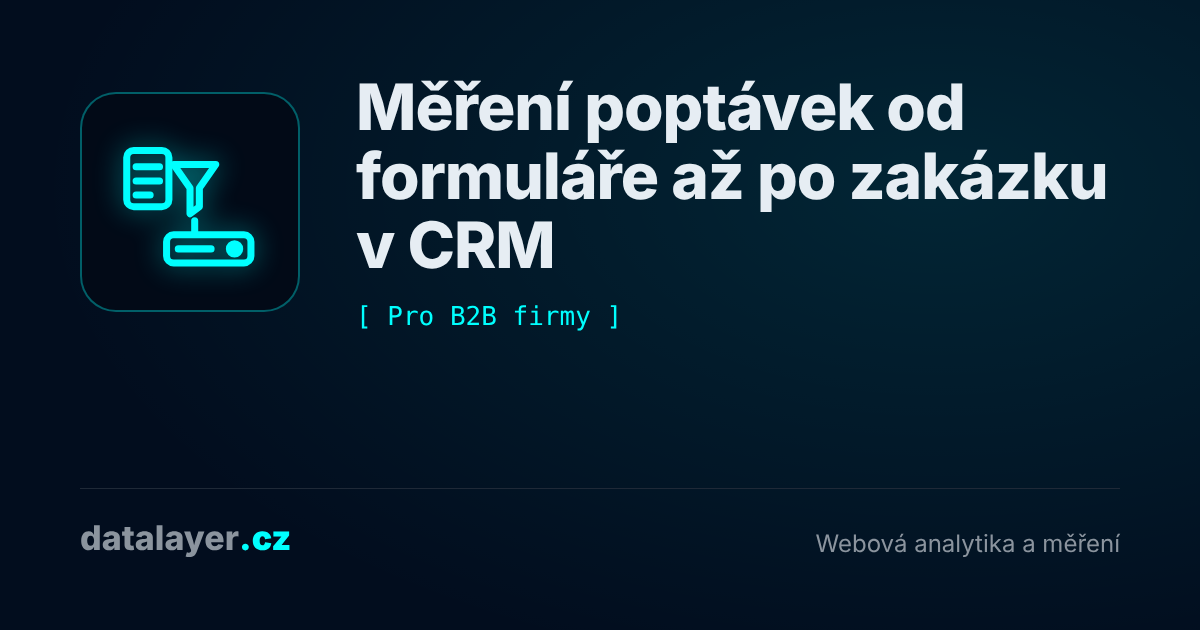
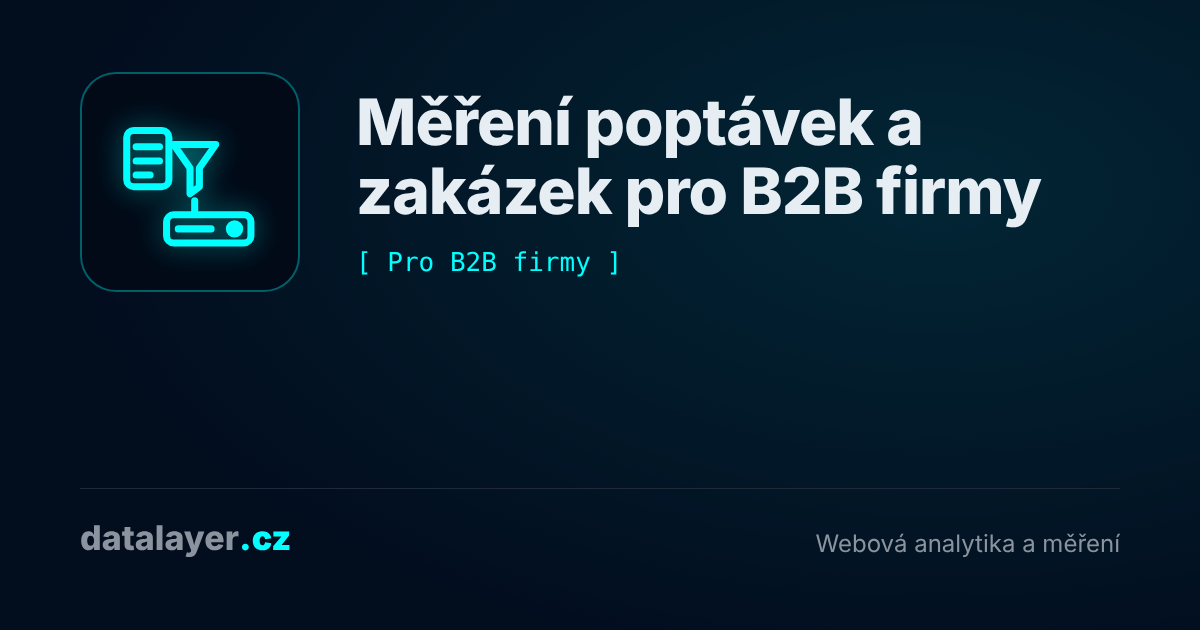
datalayer-web: audit z 2. listopadu, kap. 11–12 a typografie e-shop
- E-shopy podle kap. 11: úvod, „Co má měření e-shopu zodpovědět“, rozsah
  ve třech úrovních s odkazy na služby, platformy „Co prověříme / Co lze
  doplnit“, FAQ a kontakt
- B2B podle kap. 12: úvod, „Co potřebuje marketing vědět o výsledcích
  obchodu“, postup od formuláře k zakázce, šest výstupů, FAQ a kontakt
- nezlomitelný spojovník v „e-shop“ při vykreslení (nadpis se nelámal
  na „e-“ a „shopy“)
- testy titulků bez dlouhé pomlčky a textů z kap. 13, 14, 16 a 18

Claude-Session: https://claude.ai/code/session_01X5EG4CRVyKJvLW8kBAie3r

diff --git a/datalayer-web/app/content/defaults/pages/reseni-b2b-lead-generation.ts b/datalayer-web/app/content/defaults/pages/reseni-b2b-lead-generation.ts
@@ -1,15 +1,16 @@
 import type { PageInput } from '../../schema';
 
-// Stránka odpovídá auditu z 2. listopadu 2026 (seo-analyza/2026-11-02_seo-ux-texty).
-// Kapitola k B2B v podkladu chybí, platí jen společná pravidla G01–G07 a závěr
-// z kap. 1 (stránka je rozcestník podle typu firmy). Zůstaly: hero s jedním tlačítkem,
-// „Co uděláme a co dostanete“ se šesti kartami (pravidlo devadesáti dní je v kartě
-// offline konverzí) a čtyři otázky. Sekce se situacemi má konkrétní nadpis a kotvu
-// #kdy. Úvod jen vysvětlí nabídku, definice poptávky a okruh web – CRM – reklamní
-// systémy jsou v sekci #jak-to-funguje (G06), podrobnosti o rozšířených konverzích
-// a Data Manager API z FAQ v technické poznámce pod ní (G04). „Lead“ zůstal jen jako
-// odborný název v definici a v SEO popisu, jinak „poptávka“; cesta stránky se nemění.
-// Přibyly související služby před kontaktem.
+// Stránka odpovídá auditu z 2. listopadu 2026 (seo-analyza/2026-11-02_seo-ux-texty,
+// kap. 3 a 12, L01–L05; SEO podle kap. 17, S03 a S04). Zůstaly: hero s jedním tlačítkem,
+// nově s kotvami, karty situací (nadpis „Co potřebuje marketing vědět o výsledcích
+// obchodu“), šest karet výstupů, čtyři otázky a související služby Měření konverzí
+// a BigQuery a reporting. Sekci „Jak měření poptávek funguje“ s technickou poznámkou
+// nahradil postup „Od formuláře k zakázce“ ve čtyřech krocích; jediná zmínka o „leadu“
+// je v jeho úvodu, cesta stránky se nemění. Vypadly: příběh o studentech, konkurenci
+// a spamu, „levnější, ale horší“ poptávky, detekce pole, na kterém návštěvník odešel,
+// BigQuery v každé zakázce, konkrétní API (Data Manager, Conversions API), datum
+// migrace Googlu a jednotný limit devadesáti dní. Zvratný trpný rod z auditu je
+// přepsaný („Jak propojit CRM s reklamními systémy?“, „Jak zacházíme s kontaktními údaji?“).
 
 export const page: PageInput = {
   path: 'reseni/b2b-a-lead-generation',
@@ -19,23 +20,28 @@ export const page: PageInput = {
   pictogram: 'lead',
 
   seo: {
-    title: 'Měření poptávek a offline konverze z CRM | datalayer.cz',
+    title: 'Měření B2B poptávek a offline konverzí – datalayer.cz',
     description:
-      'Měření poptávek a leadů od formuláře po zakázku v CRM a jejich návrat do Google Ads, Mety a LinkedInu: offline konverze, měření telefonátů a cena zakázky.',
+      'Propojíme poptávky z webu s výsledky v CRM. Nastavíme vyhodnocení kvality poptávek, reporting zakázek a vybrané offline konverze.',
   },
 
   hero: {
-    h1: 'Měření poptávek od formuláře až po zakázku v CRM',
+    h1: 'Měření poptávek a zakázek pro B2B firmy',
     subtitle:
-      'Propojíme web, reklamní systémy a CRM, tedy systém, ve kterém obchod eviduje poptávky a zákazníky. Nastavíme měření formulářů a telefonátů, ukládání zdroje poptávky do CRM a předání výsledků obchodu zpět do Google Ads, Mety a LinkedInu. Kampaně pak jde vyhodnotit podle kvalifikovaných poptávek a zakázek, nejen podle počtu formulářů.',
+      'Propojíme měření webových poptávek s výsledky obchodu v CRM. Uvidíte, ze kterých zdrojů přicházejí kvalifikované poptávky a zakázky. Podle možností systémů nastavíme také předávání vybraných výsledků zpět do reklamy jako offline konverze.',
     primaryCta: { label: 'Probrat měření poptávek', href: '#kontakt' },
+    anchors: [
+      { label: 'Co řešíme', href: '#kdy' },
+      { label: 'Postup', href: '#postup' },
+      { label: 'Výstupy', href: '#vystupy' },
+      { label: 'Cena a dotazy', href: '#faq' },
+    ],
   },
 
   sections: [
     {
       id: 'kdy',
-      title: 'Kdy propojit měření poptávek s CRM',
-      lead: 'Měření až do CRM má smysl, když reklama přivádí poptávky, ale není jasné, které z nich končí zakázkou.',
+      title: 'Co potřebuje marketing vědět o výsledcích obchodu',
       tone: 'light',
       blocks: [
         {
@@ -44,24 +50,24 @@ export const page: PageInput = {
           variant: 'symptoms',
           items: [
             {
-              title: 'Hodně poptávek, málo zakázek',
-              text: 'Kampaně hlásí hodně poptávek a obchod upozorňuje, že velkou část z nich tvoří studenti, konkurence nebo spam.',
+              title: 'Které poptávky jsou relevantní',
+              text: 'Samotný počet formulářů nevypovídá o jejich obchodní kvalitě.',
               pictogram: 'lead',
             },
             {
-              title: 'Google Ads se řídí počtem formulářů',
-              text: 'Chytré nabídky se učí, že dobrá poptávka je jakákoli poptávka, a přivádějí jich víc – levnějších, ale horších.',
-              pictogram: 'conversion',
-            },
-            {
-              title: 'V CRM chybí zdroj',
-              text: 'Obchodník vidí jméno a telefon, ale ne kampaň, klíčové slovo ani to, že zákazník přišel z LinkedInu.',
+              title: 'Odkud poptávka přišla',
+              text: 'Zdroj a dostupné identifikátory potřebujete uchovat při předání do CRM.',
               pictogram: 'datalayer',
             },
             {
-              title: 'Obchodní cyklus trvá měsíce',
-              text: 'Obchod uzavře zakázku po třech měsících a bez napojení CRM se o ní reklamní systém nedozví.',
+              title: 'Jak se poptávka vyvíjí',
+              text: 'Kvalifikace, nabídka a uzavřená zakázka mají odlišný význam pro vyhodnocení.',
               pictogram: 'monitor',
+            },
+            {
+              title: 'Co lze vracet do reklamy',
+              text: 'Předávání konverzí závisí na dostupných údajích, souhlasech a limitech cílových systémů.',
+              pictogram: 'conversion',
             },
           ],
         },
@@ -69,35 +75,27 @@ export const page: PageInput = {
     },
 
     {
-      id: 'jak-to-funguje',
-      title: 'Jak měření poptávek funguje',
-      lead: 'Poptávka, v reklamních systémech lead, je zájem potenciálního zákazníka z formuláře na webu nebo z telefonu. Měření ji sleduje ve třech místech.',
+      id: 'postup',
+      title: 'Od formuláře k zakázce',
+      lead: 'Poptávku potenciálního zákazníka označují marketingové nástroje také jako lead. Z webu putuje do CRM, tedy systému, ve kterém obchod eviduje poptávky a zákazníky.',
       tone: 'white',
       blocks: [
         {
-          type: 'cards',
-          columns: 3,
+          type: 'steps',
           items: [
+            { title: 'Poptávka z webu', text: 'Zájem potenciálního zákazníka z formuláře na webu nebo z telefonu.' },
+            { title: 'Záznam v CRM', text: 'CRM uchová dostupný zdroj poptávky a další dohodnuté údaje.' },
+            { title: 'Vyhodnocení obchodem', text: 'Obchod posoudí kvalitu poptávky a podle dohodnutých pravidel mění její fáze.' },
             {
-              title: 'Web',
-              text: 'Tady poptávka vznikne. Formulář uloží do CRM zdroj, kampaň a ID kliknutí.',
-            },
-            {
-              title: 'CRM',
-              text: 'Obchod tu zjistí kvalitu a hodnotu poptávky a podle dohodnutých pravidel mění její fáze.',
-            },
-            {
-              title: 'Reklamní systémy',
-              text: 'Fáze obchodu pošleme zpět do Google Ads, Mety a LinkedInu jako offline konverze. Kampaně se pak učí z poptávek, které obchod uzavřel, ne z počtu formulářů.',
+              title: 'Reporting a vybrané konverze pro reklamu',
+              text: 'Report propojí náklady s fázemi poptávky. Vybrané výsledky podle možností systémů předáme do reklamy jako offline konverze.',
             },
           ],
         },
         {
-          type: 'details',
-          summary: 'Technická poznámka: rozšířené konverze a Data Manager API',
+          type: 'paragraphs',
           items: [
-            'Kombinaci ID kliknutí a hashe e-mailu nebo telefonu Google nazývá „rozšířené konverze pro potenciální zákazníky“ a pro nové implementace ji doporučuje, protože konverzi spáruje, i když ID kliknutí cestou zmizí.',
-            'Od 15. června 2026 Google směruje nahrávání offline konverzí do Data Manager API, starší skripty proto převedeme.',
+            'Nejdřív s marketingem a obchodem dohodneme, co znamená kvalifikovaná poptávka a kdo aktualizuje její stav. Potom nastavíme předávání dat. Bez používaných pravidel v CRM nebude technická integrace sama stačit.',
           ],
         },
       ],
@@ -105,8 +103,7 @@ export const page: PageInput = {
 
     {
       id: 'vystupy',
-      title: 'Co uděláme a co dostanete',
-      lead: 'Uzavřený okruh od kliknutí po zakázku a zpět stojí na šesti částech – od měření formulářů přes CRM po report.',
+      title: 'Co zahrnuje řešení',
       tone: 'light',
       blocks: [
         {
@@ -114,28 +111,28 @@ export const page: PageInput = {
           columns: 3,
           items: [
             {
-              title: 'Měřicí plán a formuláře',
-              text: 'Měříme začátek vyplňování, chyby i odeslání formuláře, takže je vidět, na kterém poli lidé formulář opouštějí.',
+              title: 'Měření formulářů',
+              text: 'Rozlišení formulářů a jejich úspěšného odeslání. Detailnější sledování chyb a jednotlivých kroků domluvíme podle potřeby.',
             },
             {
-              title: 'Zdroj a ID kliknutí v CRM',
-              text: 'Formulář automaticky vyplní v CRM zdroj, kampaň, ID kliknutí a ID poptávky. Pole nastavíme sami, nebo je připravíme pro správce CRM.',
+              title: 'Předání do CRM',
+              text: 'Uložení dostupného zdroje, identifikátoru poptávky a dalších dohodnutých údajů.',
             },
             {
-              title: 'Mapa fází poptávky',
-              text: 'S obchodem dohodneme fáze, jejich hodnoty a pravidla pro změnu fáze; obchodníky krátce zaškolíme.',
+              title: 'Pravidla obchodních fází',
+              text: 'Definice kvalifikace, nabídky a zakázky včetně odpovědnosti za aktualizaci.',
             },
             {
-              title: 'Konverze zpět do reklamních systémů',
-              text: 'Kvalifikované poptávky a zakázky s hodnotou pošleme do Google Ads přes Data Manager a do Mety a LinkedInu přes Conversions API. Google Ads přiřadí offline konverzi jen do devadesáti dní od kliknutí, u delších obchodů proto jako primární konverzi nastavíme kvalifikovanou poptávku.',
+              title: 'Offline konverze',
+              text: 'Předávání vybraných výsledků podporovaným reklamním systémům a kontrola jejich přijetí.',
             },
             {
-              title: 'Měření telefonátů',
-              text: 'Úroveň měření zvolíme podle toho, kolik poptávek přichází telefonem – od kliknutí na číslo po dynamická čísla, která hovor zapíšou do CRM.',
+              title: 'Telefonické poptávky',
+              text: 'Podle rozsahu od měření kliknutí na číslo až po napojení služby pro měření hovorů. Kliknutí na číslo samo nepotvrzuje uskutečněný hovor.',
             },
             {
-              title: 'Report od poptávky po zakázku',
-              text: 'Náklady, poptávky a fáze z CRM spojíme v BigQuery a report ukáže cenu poptávky, kvalifikované poptávky i zakázky podle kanálů.',
+              title: 'Report výsledků',
+              text: 'Přehled nákladů a jednotlivých fází poptávky podle dostupných dat. Datový sklad zapojíme, pokud je pro propojení potřebný.',
             },
           ],
         },
@@ -145,20 +142,20 @@ export const page: PageInput = {
 
   faq: [
     {
-      q: 'Jak se zakázky z CRM dostanou zpět do Google Ads?',
-      a: 'Zakázky posíláme do Google Ads jako offline konverze. U každé poptávky formulář uloží do CRM ID kliknutí a hash e-mailu nebo telefonu. Fáze s hodnotou pak jednou denně posíláme přes Google Ads Data Manager – z HubSpotu a Salesforce přímo, z ostatních CRM přes BigQuery nebo tabulku.',
+      q: 'Jak propojit CRM s reklamními systémy?',
+      a: 'Podle možností konkrétního CRM a cílových platforem. Může jít o podporovaný konektor, API nebo pravidelný export. Před realizací ověříme dostupná pole, identifikátory a možnosti párování.',
     },
     {
       q: 'Co ovlivňuje cenu?',
-      a: 'Cenu určuje počet formulářů a vstupních kanálů, třeba webu, telefonu nebo formulářů přímo v reklamách, dále CRM a jeho možnosti exportu, počet reklamních systémů, úroveň měření telefonátů a report. Po úvodní konzultaci a krátkém auditu dostanete nabídku s pevným rozsahem a výstupy. Poplatky za call tracking nebo licence CRM platíte přímo poskytovatelům.',
+      a: 'Počet formulářů a zdrojů poptávek, možnosti CRM, počet reklamních systémů a rozsah reportingu. Licence CRM, měření hovorů a případný cloud jsou samostatné položky.',
     },
     {
-      q: 'Jaká součinnost je potřeba?',
-      a: 'Přístupy do Google Tag Manageru, Google Analytics 4 a reklamních účtů, součinnost správce CRM a případně vývojáře webu pro úpravu formulářů. Důležitý je i krátký workshop s obchodem, na kterém dohodneme, co znamená „kvalifikovaná poptávka“ a kdy obchodník mění fázi. Pracujeme přímo ve vašich účtech, přístupy po skončení projektu odeberete a mapu fází s dokumentací předáme.',
+      q: 'Koho je potřeba zapojit na straně firmy?',
+      a: 'Marketing, obchod a správce CRM; podle rozsahu také vývojáře webu. Obchod určí význam jednotlivých fází a bude jejich stav průběžně udržovat.',
     },
     {
-      q: 'Je posílání dat z CRM do Googlu a Mety v souladu s GDPR?',
-      a: 'Technické nastavení připravíme konzervativně, právní titul pro předání údajů ale posoudí váš právník. Kontaktní údaje posíláme jen jako hash a jen se souhlasem <code>ad_user_data</code>, do GA4 žádné osobní údaje nejdou a předáváme jen nezbytná pole. Správce osobních údajů z CRM je vaše firma, Google u rozšířených konverzí vystupuje jako zpracovatel podle smluvních podmínek Google Ads Data Processing Terms a my jako zpracovatel podle zpracovatelské smlouvy. Nejsme advokátní kancelář, právníkovi ale dodáme přesný popis datových toků.',
+      q: 'Jak zacházíme s kontaktními údaji?',
+      a: 'Předem určíme nezbytná pole, účely a příjemce dat. Implementaci nastavíme podle odsouhlasených pravidel a dodáme popis datových toků. Hashování není anonymizace; přípustnost předání je potřeba posoudit pro konkrétní řešení.',
     },
   ],
 
@@ -174,28 +171,22 @@ export const page: PageInput = {
         href: '/sluzby/bigquery',
         text: 'Spojí náklady na reklamu s poptávkami a fázemi obchodu z CRM do společného reportu.',
       },
-      {
-        label: 'Server-side měření',
-        href: '/sluzby/server-side-tracking',
-        text: 'Předá události ze serveru a CRM, například změny stavu poptávky, reklamním systémům podle nastavených pravidel.',
-      },
     ],
   },
 
   contact: {
     formId: 'lp-b2b',
-    title: 'Proberme měření poptávek',
-    lead: 'Napište, jaké CRM používáte a odkud poptávky přicházejí. Na úvodní konzultaci upřesníme zadání a navrhneme další postup.',
+    title: 'Proberme propojení webu a CRM',
+    lead: 'Napište, jaké CRM používáte, odkud přicházejí poptávky a jak je obchod vyhodnocuje. Navrhneme první krok i potřebnou součinnost.',
     placeholder: '',
     leadType: 'consultation',
   },
 
   schema: {
-    name: 'Měření poptávek a offline konverze pro B2B',
-    serviceType:
-      'Měření formulářů, napojení CRM, offline a rozšířené konverze pro potenciální zákazníky, měření telefonátů, reporting od poptávky po zakázku',
+    name: 'Měření poptávek a zakázek pro B2B firmy',
+    serviceType: 'Měření formulářů, předání poptávek do CRM, offline konverze a reporting od poptávky po zakázku',
     description:
-      'Měření poptávek od formuláře po zakázku v CRM a jejich návrat do Google Ads, Mety a LinkedInu: offline konverze, rozšířené konverze pro potenciální zákazníky, měření telefonátů a reporting ceny poptávky, ceny zakázky a poměru poptávek k zakázkám.',
+      'Propojení měření webových poptávek s výsledky obchodu v CRM: přehled zdrojů kvalifikovaných poptávek a zakázek a podle možností systémů předávání vybraných výsledků zpět do reklamy jako offline konverze.',
     audience: 'B2B firmy a firmy, které získávají zákazníky přes poptávky',
   },
 };

diff --git a/datalayer-web/tests/content.test.ts b/datalayer-web/tests/content.test.ts
@@ -2,6 +2,7 @@ import { describe, expect, it } from 'vitest';
 import { DEFAULT_NAVIGATION, DEFAULT_PAGES, DEFAULT_TEXTS } from '~/content/defaults';
 import { navigationSchema, pageSchema, templateAnchors, textsSchema, type Link, type NavLink, type PageContent } from '~/content/schema';
 import { checkPage, checkText, pageTexts, plainText } from '~/lib/textRules';
+import { typo, typoHtml } from '~/lib/typo';
 
 // Kontrola výchozího obsahu webu (app/content/defaults) – z něj migrace
 // (20261009_cms_content_import, 20261009_lp_stihla_sablona, 20261009_ux_redukce…)
@@ -326,10 +327,34 @@ describe('audit z 2. listopadu 2026 (seo-analyza/2026-11-02_seo-ux-texty)', () =
     }
   });
 
+  it('titulky a popisy pro vyhledávače podle S03 a S04, bez dlouhé pomlčky', () => {
+    for (const p of DEFAULT_PAGES) {
+      expect(p.seo.title, `/${p.path}`).toMatch(/datalayer\.cz/);
+      expect(p.seo.title, `/${p.path}`).not.toMatch(/\||—/);
+    }
+    expect(JSON.stringify([DEFAULT_PAGES, DEFAULT_TEXTS, DEFAULT_NAVIGATION])).not.toContain('—');
+  });
+
+  it('O datalayer.cz, Kontakt, cookie lišta a 404 podle kap. 13, 14, 16 a 18', () => {
+    expect(DEFAULT_PAGES.find((p) => p.path === 'o-nas')!.hero.h1).toBe('O datalayer.cz');
+    expect(DEFAULT_PAGES.find((p) => p.path === 'kontakt')!.hero.h1).toBe('Kontakt');
+    expect(DEFAULT_PAGES.find((p) => p.path === 'cookies')!.hero.h1).toBe('Cookies a nastavení souhlasu');
+    expect(DEFAULT_TEXTS.cookieBar).toMatchObject({ title: 'Nastavení cookies', reject: 'Odmítnout volitelné', settings: 'Upravit nastavení', accept: 'Přijmout vše', save: 'Uložit nastavení' });
+    expect(DEFAULT_TEXTS.notFound).toMatchObject({ title: 'Tuto stránku jsme nenašli', home: 'Přejít na úvod', contact: 'Kontakt' });
+  });
+
   it('formulář: texty podle G05', () => {
     expect(DEFAULT_TEXTS.contact.submit).toBe('Odeslat poptávku');
     expect(DEFAULT_TEXTS.contact.formIntro).toBe('Stačí stručně popsat situaci. Přístupy k účtům domluvíme až podle rozsahu práce.');
     expect(DEFAULT_TEXTS.contact.successTitle).toBe('Děkujeme, poptávku jsme přijali');
+  });
+});
+
+describe('typografie při vykreslení', () => {
+  it('nedělitelné mezery a nezlomitelný spojovník v „e-shop“, odkazy beze změny', () => {
+    expect(typo('Měření pro e-shopy a B2B')).toBe('Měření pro e\u2011shopy a\u00a0B2B');
+    expect(typo('E-shop v Shoptetu')).toBe('E\u2011shop v\u00a0Shoptetu');
+    expect(typoHtml('<a href="/reseni/e-shopy">Řešení pro e-shopy</a>')).toBe('<a href="/reseni/e-shopy">Řešení pro e\u2011shopy</a>');
   });
 });
 

diff --git a/datalayer-web/app/lib/typo.ts b/datalayer-web/app/lib/typo.ts
@@ -1,15 +1,22 @@
 // Česká typografie při vykreslení (ČSN 01 6910, jazykový audit kap. 4.1): nedělitelná
 // mezera za jednopísmennými předložkami a spojkami, mezi číslem a jednotkou a za „§“,
-// aby nezůstaly na konci řádku. Obsah v administraci zůstává s obyčejnými mezerami.
+// aby nezůstaly na konci řádku, a nezlomitelný spojovník v „e-shop“, aby se slovo
+// nelámalo na „e-“ a „shop“. Obsah v administraci zůstává s obyčejnými znaky.
 
 const NBSP = ' ';
 const SINGLE = /(?<=^|[\s(„ ])([kKsSvVzZoOuUaAiI]) (?=\S)/g;
 const UNIT = /(\d) (?=(?:%|‰|Kč|ms|s|GiB|MB|kB|USD|EUR)(?![\p{L}\d]))/gu;
 const PARAGRAPH = /§ (?=\d)/g;
+const ESHOP = /(?<![\p{L}\d])([eE])-(?=shop)/gu;
+const NB_HYPHEN = '\u2011';
 
 /** Prostý text s nedělitelnými mezerami. */
 export function typo(text: string): string {
-  return text.replace(SINGLE, `$1${NBSP}`).replace(UNIT, `$1${NBSP}`).replace(PARAGRAPH, `§${NBSP}`);
+  return text
+    .replace(SINGLE, `$1${NBSP}`)
+    .replace(UNIT, `$1${NBSP}`)
+    .replace(PARAGRAPH, `§${NBSP}`)
+    .replace(ESHOP, `$1${NB_HYPHEN}`);
 }
 
 /** HTML s nedělitelnými mezerami jen v textu – značky, atributy, <code> a <pre> nechá být. */
